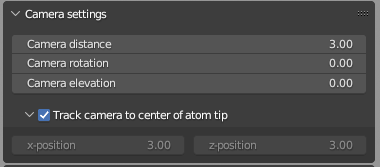
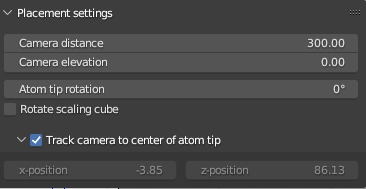
readme update

diff --git a/ui.py b/ui.py
@@ -228,7 +228,7 @@ class AB_properties(bpy.types.PropertyGroup):
                 context.scene.objects['Scaling Cube'].keyframe_insert(data_path="rotation_euler", index=2, frame=i)
                 context.scene.objects['Scaling Cube'].rotation_euler[2] += 2 * math.pi
 
-        if self.animation_mode == 'Spiral around tip':
+        if self.animation_mode == 'Top to bottom':
             center_loc = context.scene.objects['Center'].location
 
             # set keyframe for frame 1
@@ -259,7 +259,7 @@ class AB_properties(bpy.types.PropertyGroup):
         # delete camera keyframes
         bpy.data.objects['Camera'].animation_data_clear()
 
-        if self.animation_mode == 'Spiral around tip':
+        if self.animation_mode == 'Top to bottom':
             center_loc = context.scene.objects['Center'].location
 
             # set keyframe for frame 1
@@ -269,6 +269,9 @@ class AB_properties(bpy.types.PropertyGroup):
             # set keyframe for last frame
             context.scene.objects['Camera'].location[2] = center_loc[2] - 50
             context.scene.objects['Camera'].keyframe_insert(data_path="location", index=2, frame=self.frames)
+
+        if self.animation_mode == 'Static camera':
+            context.scene.objects['Camera'].location[2] = bpy.data.objects['Center'].location[2]
 
     def update_background_color(self, context):
         # if context.space_data.region_3d.view_perspective == 'CAMERA':
@@ -403,10 +406,10 @@ class AB_properties(bpy.types.PropertyGroup):
 
     animation_mode: bpy.props.EnumProperty(
         name='Animation mode',
-        items=[('Circle around tip', 'Circle around tip', 'Circle around tip'),
-               ('Spiral around tip', 'Spiral around tip', 'Spiral around tip')
+        items=[('Static camera', 'Static camera', 'Static camera'),
+               ('Top to bottom', 'Top to bottom', 'Top to bottom')
                ],
-        default='Circle around tip',
+        default='Static camera',
         update=update_animation_mode
     )
     file_format: bpy.props.EnumProperty(

diff --git a/README.md b/README.md
@@ -74,12 +74,13 @@ Open the `Advanced settings` to make detailed settings to the appearance of the 
 `Font color` - Change the font color of the element names<br/>
 `Hide hidden elements in legend` - If activated, the elements you hid in the `Display settings` will also be hidden in the legend<br/>
 
-### Camera settings
+### Placement settings
 Make camera settings<br/>
 <img src="media/readme-camera_settings.PNG" width="50%" height="50%"/>
 `Camera distance` - Change the distance of the camera to the tip<br/>
-`Camera rotation` - Change the rotation of the tip<br/>
 `Camera elevation` - Change the elevation of the camera<br/>
+`Atom tip rotation` - Change the rotation of the tip<br/>
+`Rotate scaling cube` - If activated, the scaling cube is also rotated<br/>
 `Track camera to center of atom tip` - If enabled, the camera is always tracked to the center of the atom tip<br/>
 `x/z-position` - If the camera is not tracked to the center of the atom tip, the camera position can be moved.
 
@@ -109,8 +110,8 @@ Render a video<br/>
 `Frames` - Total frame of your video, the approximal duration of the video is also shown<br/>
 `Number of rotations` - Change the number of rotations in your video<br/>
 `Animation mode` - Change the animation of your video. You can select between:
-  - Circle around tip: Camera moves around the tip but stays at the same height<br/>
-  - Spiral around tip: Camera moves spirally around the tip from top to bottom<br/>
+  - Static camera: Camera stays at the same height<br/>
+  - Top to bottom: Camera moves from top to bottom<br/>
 
 `File Format` - The file format of your rendering will be AVI. But first, all the frames will be rendered separately and will be converted to a video later. Here, you can choose the file format for these frames. You can select between PNG, JPG and TIFF<br/>
 `Output Path` - Select the output path of your rendering<br/>
